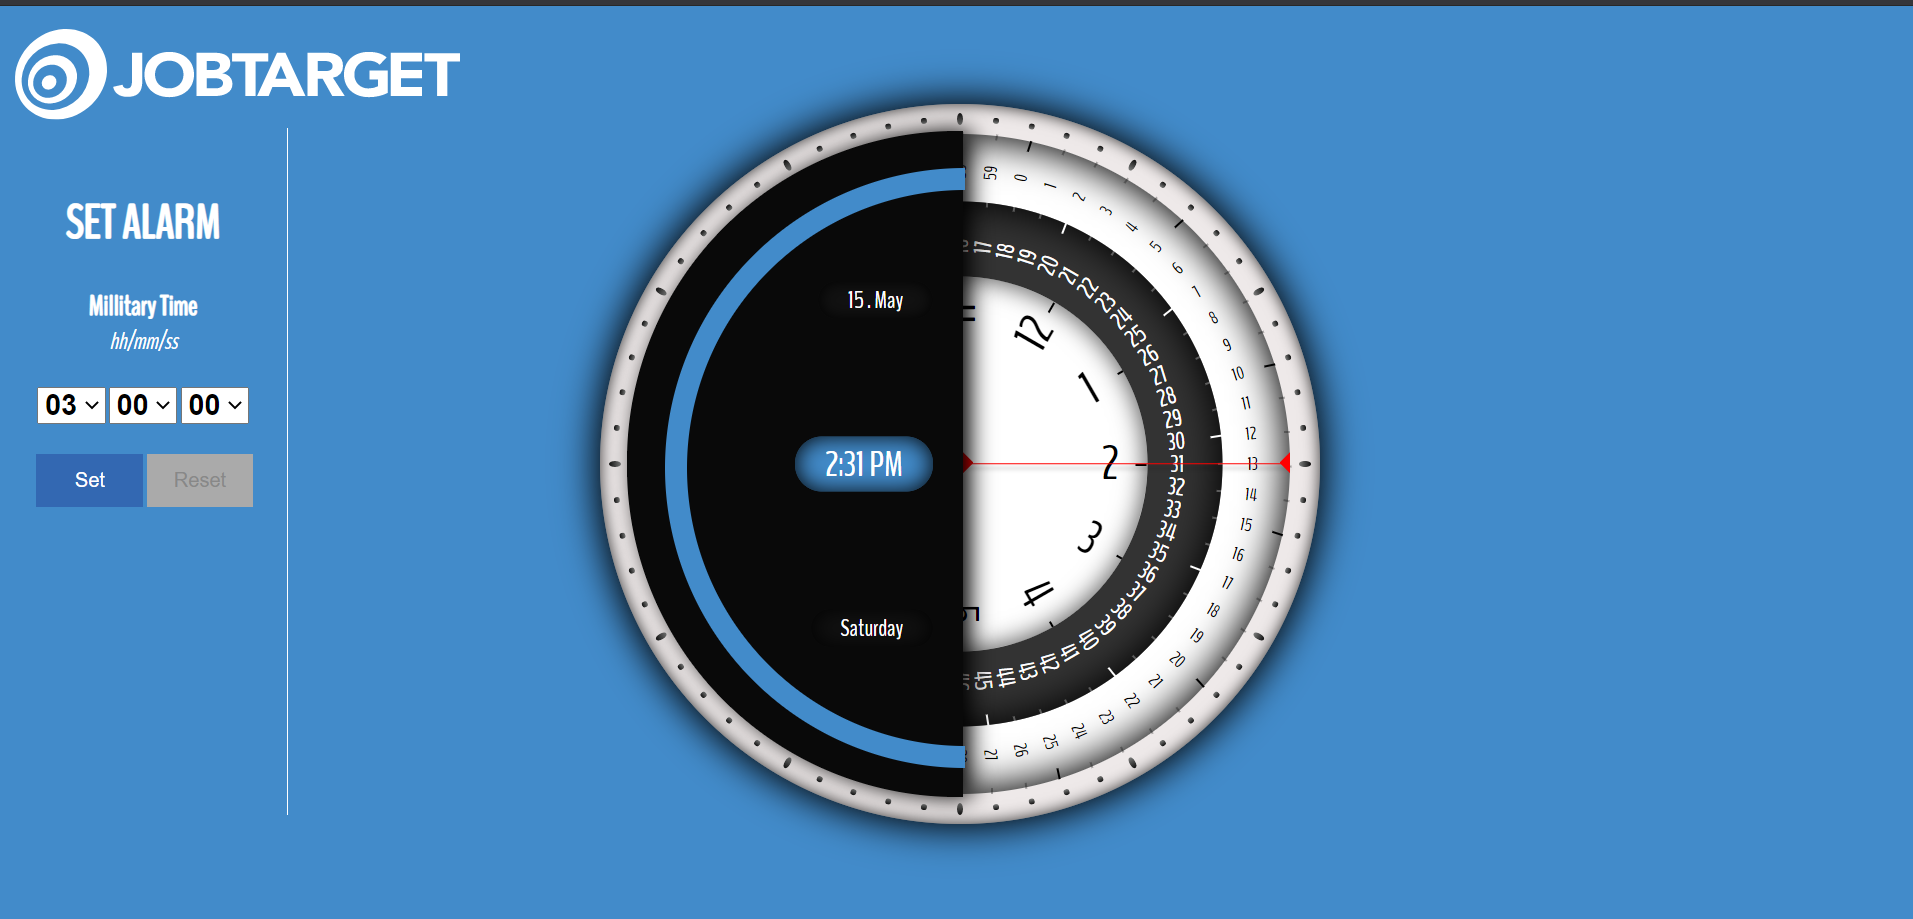
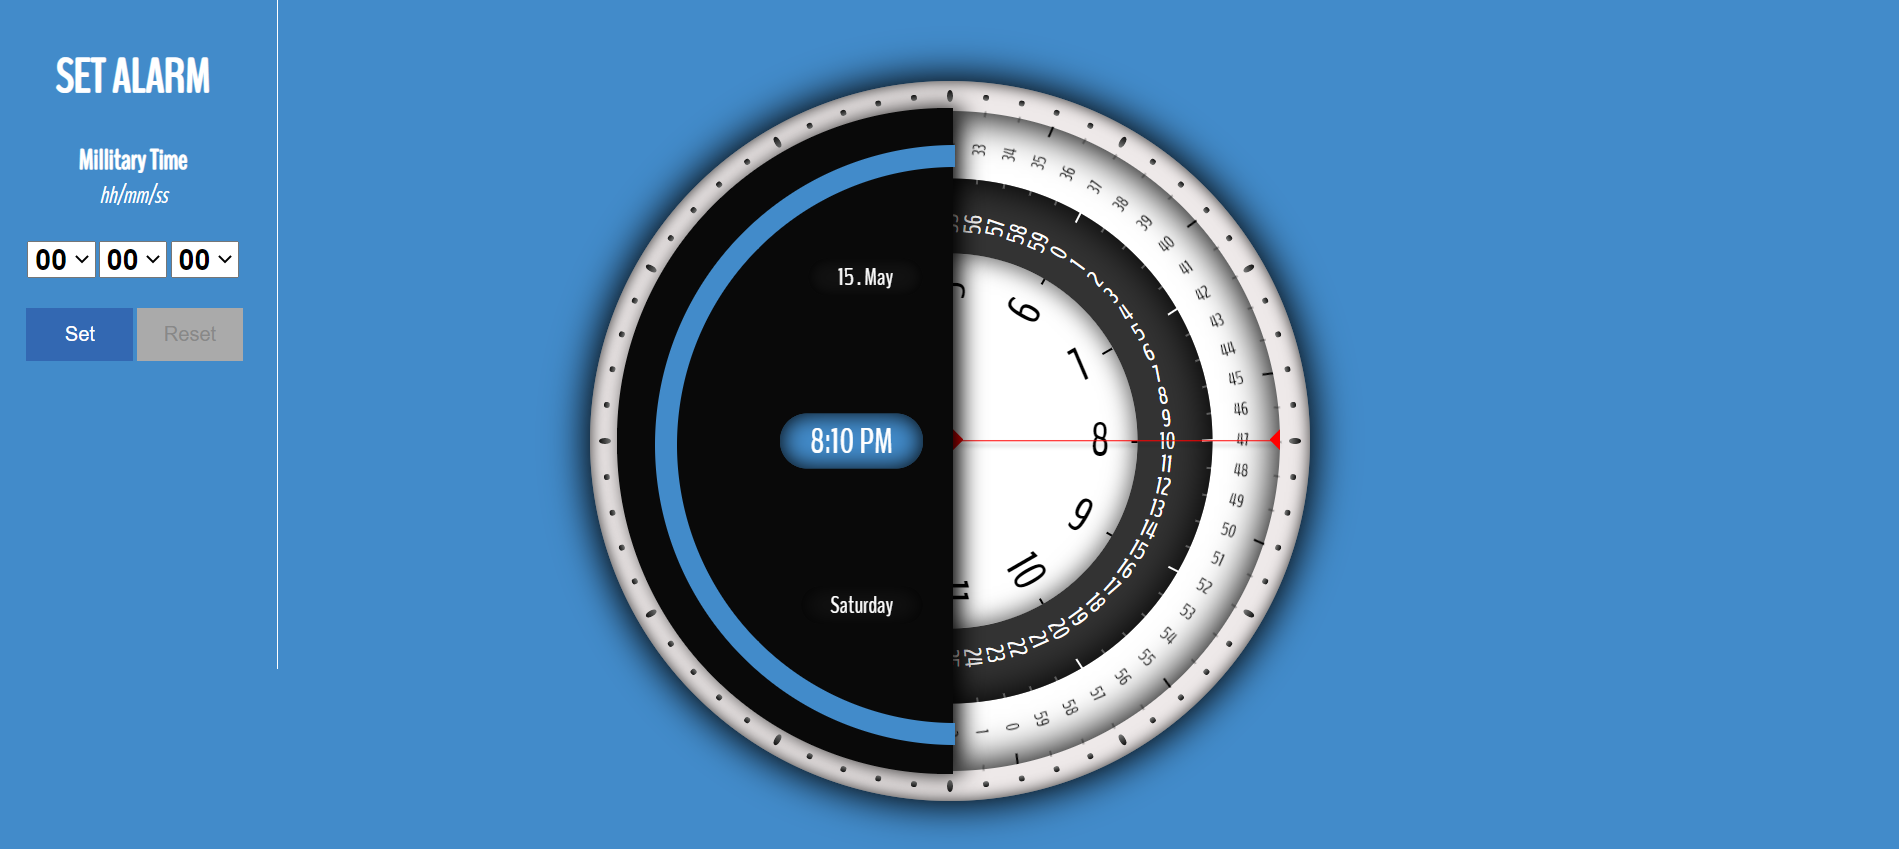
snooze button

diff --git a/alarm.js b/alarm.js
@@ -6,16 +6,19 @@ var ac = {
     // (A1) CREATE TIME PICKER - HR, MIN, SEC
     ac.thr = ac.createSel(23);
     document.getElementById("tpick-h").appendChild(ac.thr);
+
     ac.thm = ac.createSel(59);
     document.getElementById("tpick-m").appendChild(ac.thm);
     ac.ths = ac.createSel(59);
     document.getElementById("tpick-s").appendChild(ac.ths);
+    ac.snoozeButton = document.getElementById("tresnooze");
 
     // (A2) CREATE TIME PICKER - SET, RESET
     ac.tset = document.getElementById("tset");
     ac.tset.addEventListener("click", ac.set);
     ac.treset = document.getElementById("treset");
     ac.treset.addEventListener("click", ac.reset);
+    ac.snoozeButton.addEventListener("click", ac.snooze);
 
     // (A3) GET ALARM SOUND
     ac.sound = document.getElementById("alarm-sound");
@@ -29,12 +32,12 @@ var ac = {
         var hr = ac.padzero(now.getHours());
         var min = ac.padzero(now.getMinutes());
         var sec = ac.padzero(now.getSeconds());
-        console.log(hr + min + sec);
-        console.log(ac.alarm);
         // (D3) CHECK AND SOUND ALARM
         if (ac.alarm != null) {
-          now = hr + min + sec;
-          if (now == ac.alarm) {
+          now = hr + ":" + min + ":" + sec;
+          now = ac.hmsToSecondsOnly(now);
+          if (now.getTime() == ac.alarm.getTime()) {
+            console.log("WORKS");
             if (ac.sound.paused) {
               ac.sound.play();
             }
@@ -75,7 +78,10 @@ var ac = {
 
   // (E) SET ALARM
   set: function () {
-    ac.alarm = ac.thr.value + ac.thm.value + ac.ths.value;
+    // we get the time from drop down as string
+
+    ac.alarm = ac.thr.value + ":" + ac.thm.value + ":" + ac.ths.value;
+    ac.alarm = ac.hmsToSecondsOnly(ac.alarm);
     ac.displayAlarm = `${ac.thr.value}/${ac.thm.value}/${ac.ths.value}`;
     ac.thr.disabled = true;
     ac.thm.disabled = true;
@@ -111,6 +117,23 @@ var ac = {
     let timeContainer = document.getElementById("timers");
     ac.removeChildren(timeContainer);
   },
+
+  hmsToSecondsOnly: function (time) {
+    time = time.split(":");
+    let now = new Date();
+    return new Date(now.getFullYear(), now.getMonth(), now.getDate(), ...time);
+  },
+
+  snooze: function () {
+    if (ac.alarm) {
+      let new_time = new Date(ac.alarm.getTime() + 5 * 60000);
+      console.log(`adding 5 minutes `);
+      console.log(`New time after snooze`);
+      console.log(`${new_time}`);
+      ac.alarm = new_time;
+    }
+  },
+
   removeChildren: function (parent) {
     while (parent.firstChild) {
       parent.removeChild(parent.firstChild);

diff --git a/index.html b/index.html
@@ -45,6 +45,7 @@
           <div>
             <input type="button" value="Set" id="tset" />
             <input type="button" value="Reset" id="treset" disabled />
+            <input type="button" value="Snooze" id="tresnooze" />
           </div>
         </div>
 
